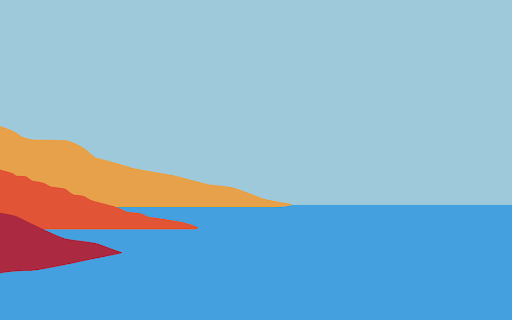
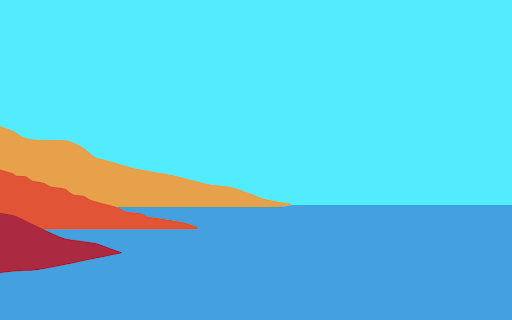
Add files via upload

diff --git a/main.py b/main.py
@@ -137,7 +137,7 @@ def savePictures(file, slide, num, boo):
             os.remove("imageFile.jpg")
 
 
-frame = tk.Frame(root, bg='#9ec9da', height=HEIGHT, width=WIDTH)
+frame = tk.Frame(root, bg='#53ecff', height=HEIGHT, width=WIDTH)
 frame.place(relx=.25, rely=.02, relwidth=.7, relheight=.62)
 
 checked = tk.BooleanVar()
@@ -145,34 +145,34 @@ checked.set(False)
 checkBox3 = tk.Checkbutton(frame)
 checkBox3.config(text="Images on a separate Word Document",
                  command=imageSetting, anchor=tk.W,
-                 bg='#9ec9da', var=checked)
+                 bg='#53ecff', var=checked)
 checkBox3.place(relx=.03, rely=.04)
 
-inputFileFirst = tk.Label(frame, text="1.", bg='#9ec9da')
+inputFileFirst = tk.Label(frame, text="1.", bg='#53ecff')
 inputFileFirst.place(relx=0.03, rely=.28)
 
 inputFile = tk.Button(frame, text="Click", command=pptxGet)
 inputFile.place(relx=0.092, rely=.27, relwidth=.12)
 
-inputFileLabel = tk.Label(frame, text="to select a .pptx file to convert", bg='#9ec9da')
+inputFileLabel = tk.Label(frame, text="to select a .pptx file to convert", bg='#53ecff')
 inputFileLabel.place(relx=0.21, rely=.285)
 
-outputFileSecond = tk.Label(frame, text="2.", bg='#9ec9da')
+outputFileSecond = tk.Label(frame, text="2.", bg='#53ecff')
 outputFileSecond.place(relx=0.03, rely=.54)
 
 outputFile = tk.Button(frame, text="Click", command=docxGet)
 outputFile.place(relx=0.092, rely=.53, relwidth=.12)
 
-outputFileLabel = tk.Label(frame, text="to create or select a .docx file to save to", bg='#9ec9da')
+outputFileLabel = tk.Label(frame, text="to create or select a .docx file to save to", bg='#53ecff')
 outputFileLabel.place(relx=0.21, rely=.554)
 
-programRunnerThird = tk.Label(frame, text="3.", bg='#9ec9da')
+programRunnerThird = tk.Label(frame, text="3.", bg='#53ecff')
 programRunnerThird.place(relx=0.03, rely=.79)
 
 programRunner = tk.Button(frame, text="Click", command=program)
 programRunner.place(relx=0.092, rely=.78, relwidth=.12)
 
-programRunnerLabel = tk.Label(frame, text="to run the program", bg='#9ec9da')
+programRunnerLabel = tk.Label(frame, text="to run the program", bg='#53ecff')
 programRunnerLabel.place(relx=0.21, rely=.795)
 
 quitButton = tk.Button(frame, text="exit", command=root.quit)
